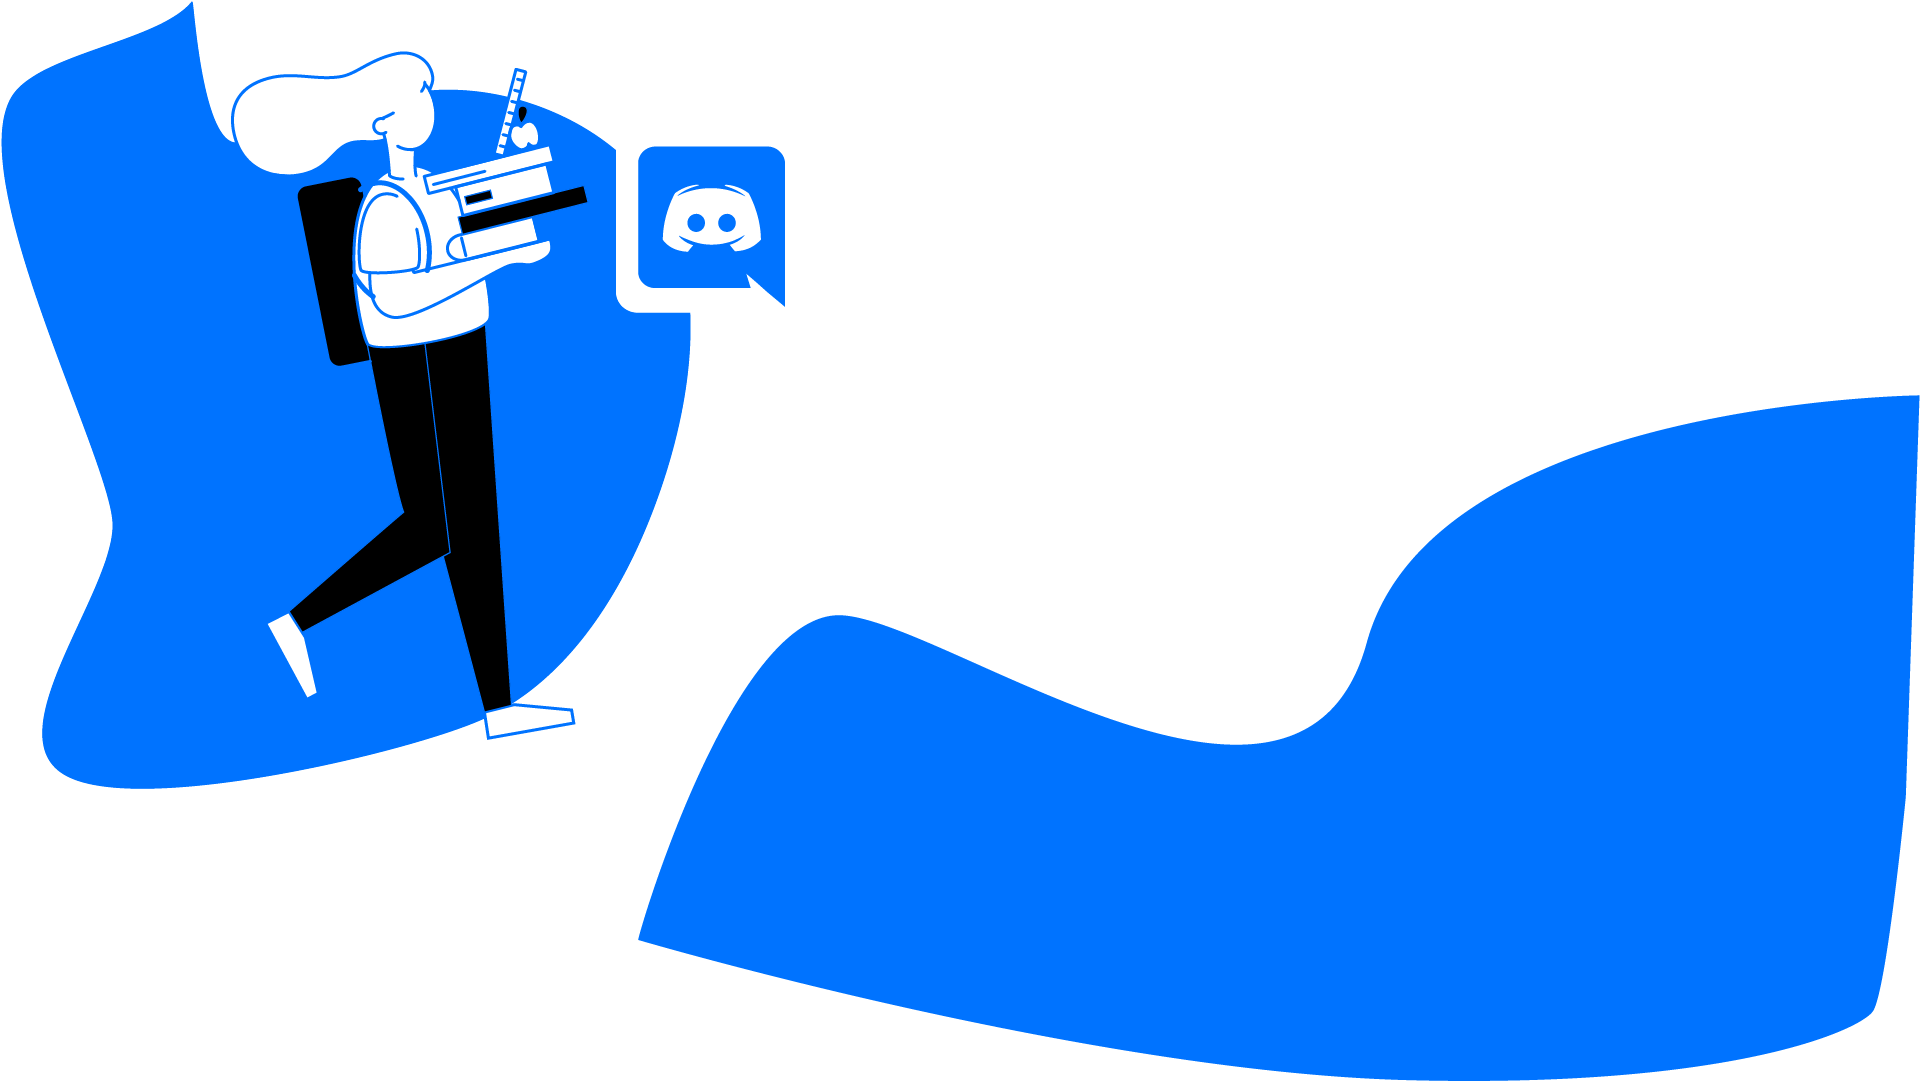
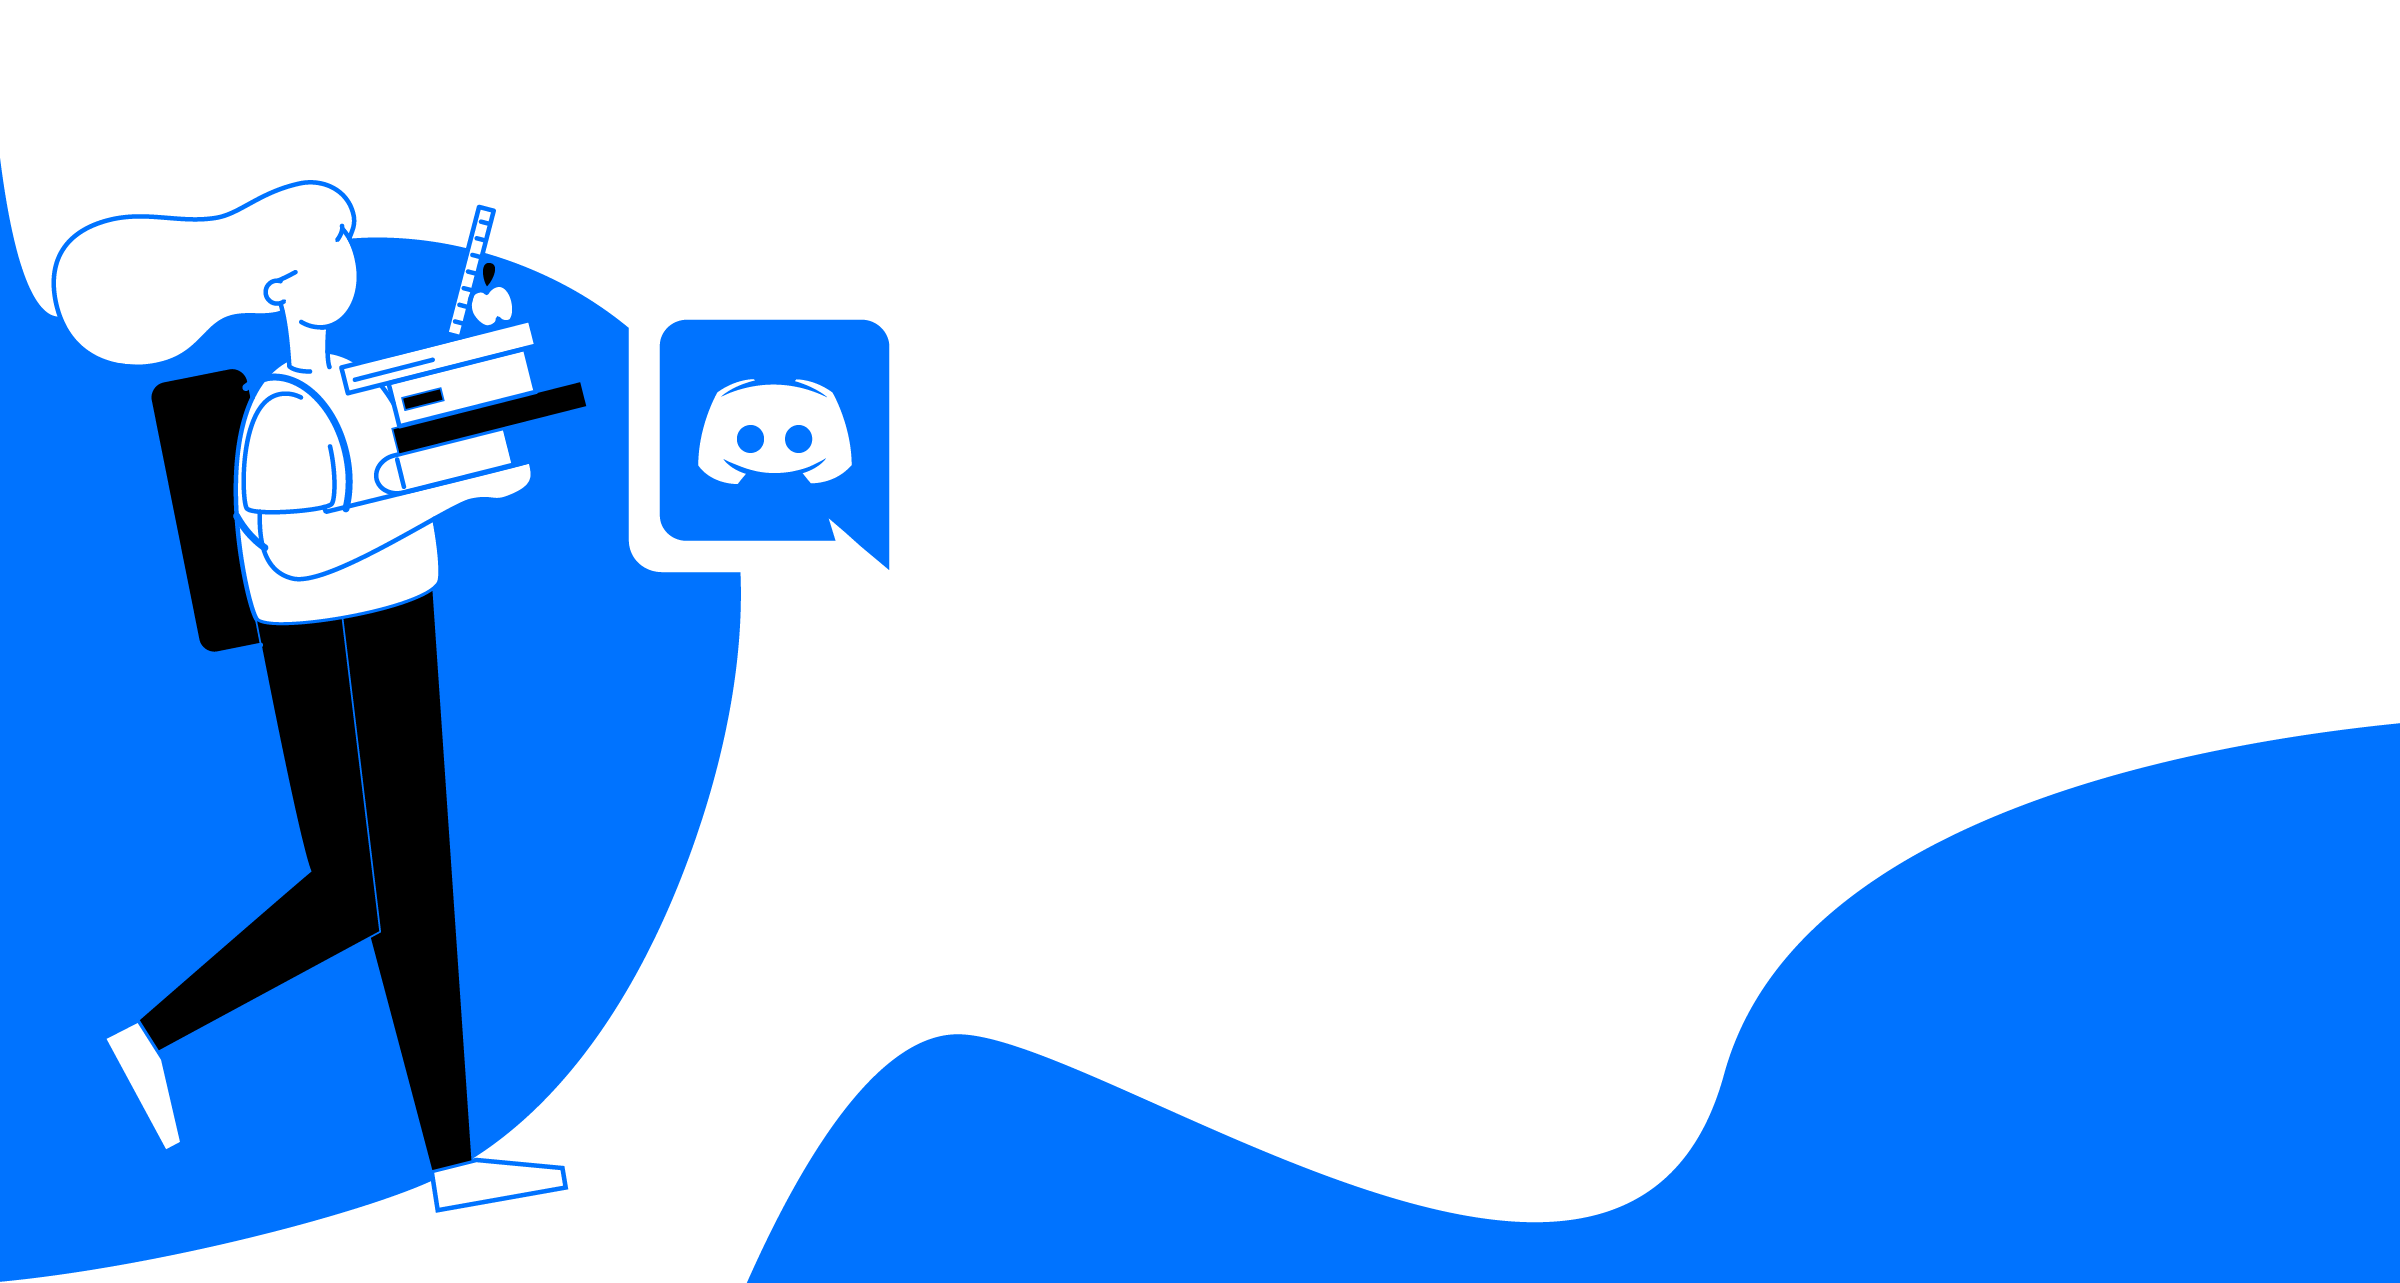
updated discord page

diff --git a/src/views/discord/discord.css b/src/views/discord/discord.css
@@ -3,8 +3,8 @@
     width: 100%;
 }
 
-#home-content {
-    background: url("../../assets/images/background-home.png") right/cover;
+#discord-content {
+    background: url("../../assets/images/discord-background.png") left/cover;
     transition: background cubic-bezier(0.6, -0.28, 0.735, 0.045) 0.3s;
 }
 
@@ -12,19 +12,17 @@
     display: flex;
     justify-content: center;
     align-items: flex-start;
-    width: 50vw;
+    width: 55vw;
     height: 100vh;
     flex-direction: column;
-    padding-left: 3vw;
+    padding-left: 40vw;
 }
 
-.title-home {
+.title-discord {
     color: var(--text-blue);
-    font-size: 9vh;
-    width: 70%;
+    font-size: 8vh;
     margin: 0px;
     text-transform: uppercase;
-    margin-top: 60px;
 }
 
 .divider {
@@ -35,20 +33,20 @@
     margin-bottom: 60px;
 }
 
-.secondary-text-home {
+.secondary-text-discord {
     color: var(--text-light-blue);
     width: 60%;
     font-size: 14pt;
     text-align: justify;
 }
 
-.buttons-left-home {
+.buttons-left-discord {
     display: flex;
     justify-content: center;
     align-items: center;
 }
 
-.buttons-left-home > a {
+.buttons-left-discord > a {
     background: var(--text-blue);
     padding: 30px 20px;
     border-radius: 15px;
@@ -62,44 +60,44 @@
     transition: 0.3s;
 }
 
-.buttons-left-home > a > img {
+.buttons-left-discord > a > img {
     width: 70%;
 }
 
-.buttons-left-home > a:hover {
+.buttons-left-discord > a:hover {
     transform: scale(1.05);
 }
 
-.text-left-home {
+.text-left-discord {
     margin-bottom: 80px;
 }
 
 @media only screen and (max-width: 1440px) {
     #home-content {
-        background: url("../../assets/images/background-home-md.png")
-            right/cover;
+        /* background: url("../../assets/images/background-discord-md.png") right/cover;*/
+            
     }
-    .title-home {
+    .title-discord {
         font-size: 8vh;
         width: 90%;
     }
 }
 
 @media only screen and (max-width: 1366px) {
-    .title-home {
+    .title-discord {
         font-size: 35pt;
         width: 90%;
     }
     .divider {
         margin-bottom: 30px;
     }
-    .text-left-home {
+    .text-left-discord {
         margin-bottom: 30px;
     }
-    .secondary-text-home {
+    .secondary-text-discord {
         width: 80%;
     }
-    .buttons-left-home > a {
+    .buttons-left-discord > a {
         width: 7vw;
         height: 12vh;
     }
@@ -107,26 +105,26 @@
 
 @media only screen and (max-height: 800px) {
     #home-content {
-        background: url("../../assets/images/background-home-smd.png")
-            right/cover;
+        /* background: url("../../assets/images/background-discord-smd.png") right/cover;*/
+            
     }
 }
 
 @media only screen and (max-width: 550px) and (orientation: portrait) {
     #home-content {
-        background: url("../../assets/images/background-home-xs.png")
-        right/cover;
+        /* background: url("../../assets/images/background-discord-xs.png") right/cover;*/
+        
     }
-    .text-left-home {
+    .text-left-discord {
         margin-bottom: 0px;
     }
-    .title-home {
+    .title-discord {
         font-size: 30pt;
         width: 100%;
         margin-top: 90px;
     }
     
-    .secondary-text-home {
+    .secondary-text-discord {
         width: 100%;
         font-size: 12pt
     }
@@ -136,7 +134,7 @@
         width: 90vw;
         height: 100vh;
     }
-    .buttons-left-home > a{
+    .buttons-left-discord > a{
         width: 11vw;
         height: 4vh;
         margin: 0px 17px;
@@ -148,10 +146,10 @@
 }
 
 @media only screen and (max-height: 640px) and (orientation: portrait) {
-    .secondary-text-home {
+    .secondary-text-discord {
         font-size: 11pt;
     }
-    .title-home {
+    .title-discord {
         font-size: 25pt;
         margin-top: 80px;
     }

diff --git a/src/views/discord/index.js b/src/views/discord/index.js
@@ -1,38 +1,25 @@
 import React from "react";
-import './discord.css';
-import Background from '../../assets/images/background-home.png';
-import DiscordImage from '../../assets/images/discord.png';
-import TeamImage from '../../assets/images/multiple-users-silhouette.png';
-import GithubImage from '../../assets/images/github-image.png';
+import "./discord.css";
+import DiscordImage from "../../assets/images/discord.png";
+import TeamImage from "../../assets/images/multiple-users-silhouette.png";
+import GithubImage from "../../assets/images/github-image.png";
 
 import { Link } from "react-router-dom";
 
 export default function DiscordPage() {
   return (
-    <div className="content" id="home-content">
+    <div className="content" id="discord-content">
       <div className="shell-left">
-        <div className="text-left-home">
-          <h1 className="title-home">
-            Lorem ipsum<br/>dolor sit amet
+        <div className="text-left-discord">
+          <h1 className="title-discord">
+            junte-se ao<br></br>nosso discord :)
           </h1>
           <div className="divider back-blue"></div>
-          <p className="secondary-text-home">
-            Lorem ipsum dolor sit amet, consectetur adipiscing elit,
-            sed do eiusmod tempor incididunt ut labore et dolore
-            magna aliqua. Ut enim ad minim veniam, quis nostrud
-            exercitation ullamco laboris nisi ut aliquip ex ea commodo
+          <p className="secondary-text-discord">
+            Faça parte de uma comunidade focada em ajudar o próximo, tire
+            dúvidas, ajude outros usuários a resolver problemas ou divulgue suas
+            artes, tudo isso em um só servidor 🤩
           </p>
-        </div>
-        <div className="buttons-left-home">
-          <Link>
-            <img src={DiscordImage}></img>
-          </Link>
-          <Link>
-            <img src={TeamImage}></img>
-          </Link>
-          <Link>
-            <img src={GithubImage}></img>
-          </Link>
         </div>
       </div>
     </div>
